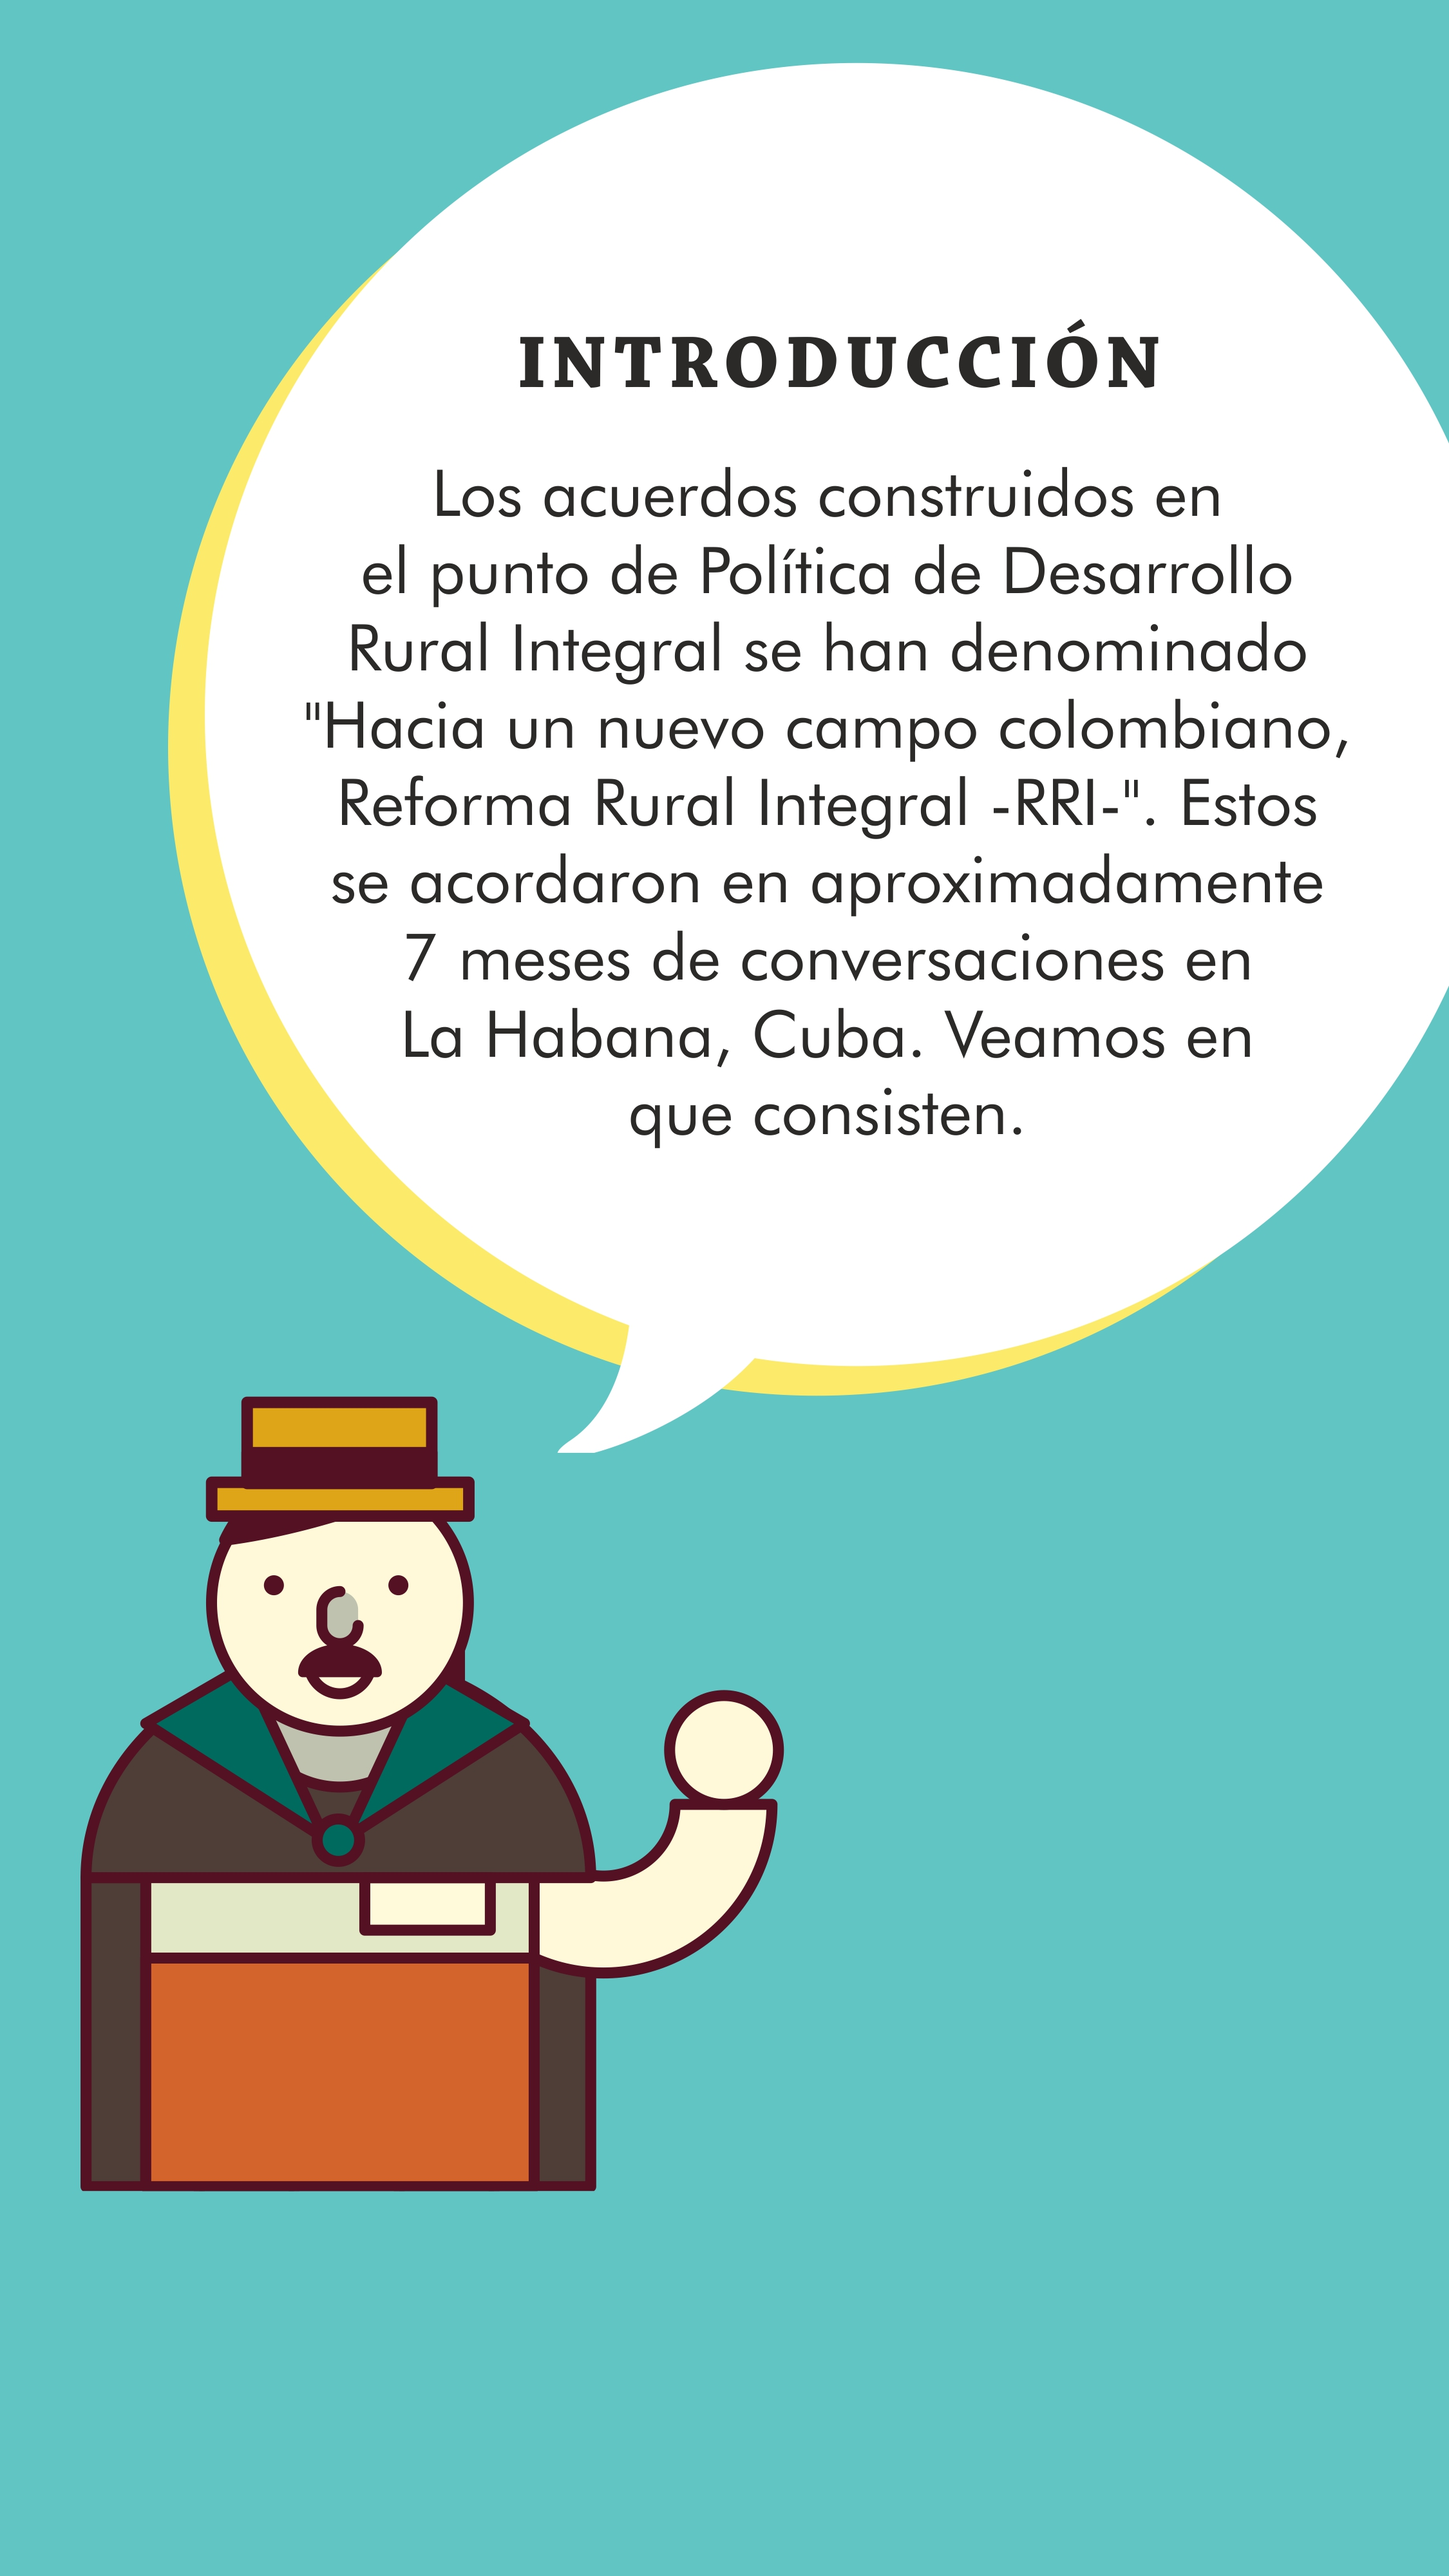
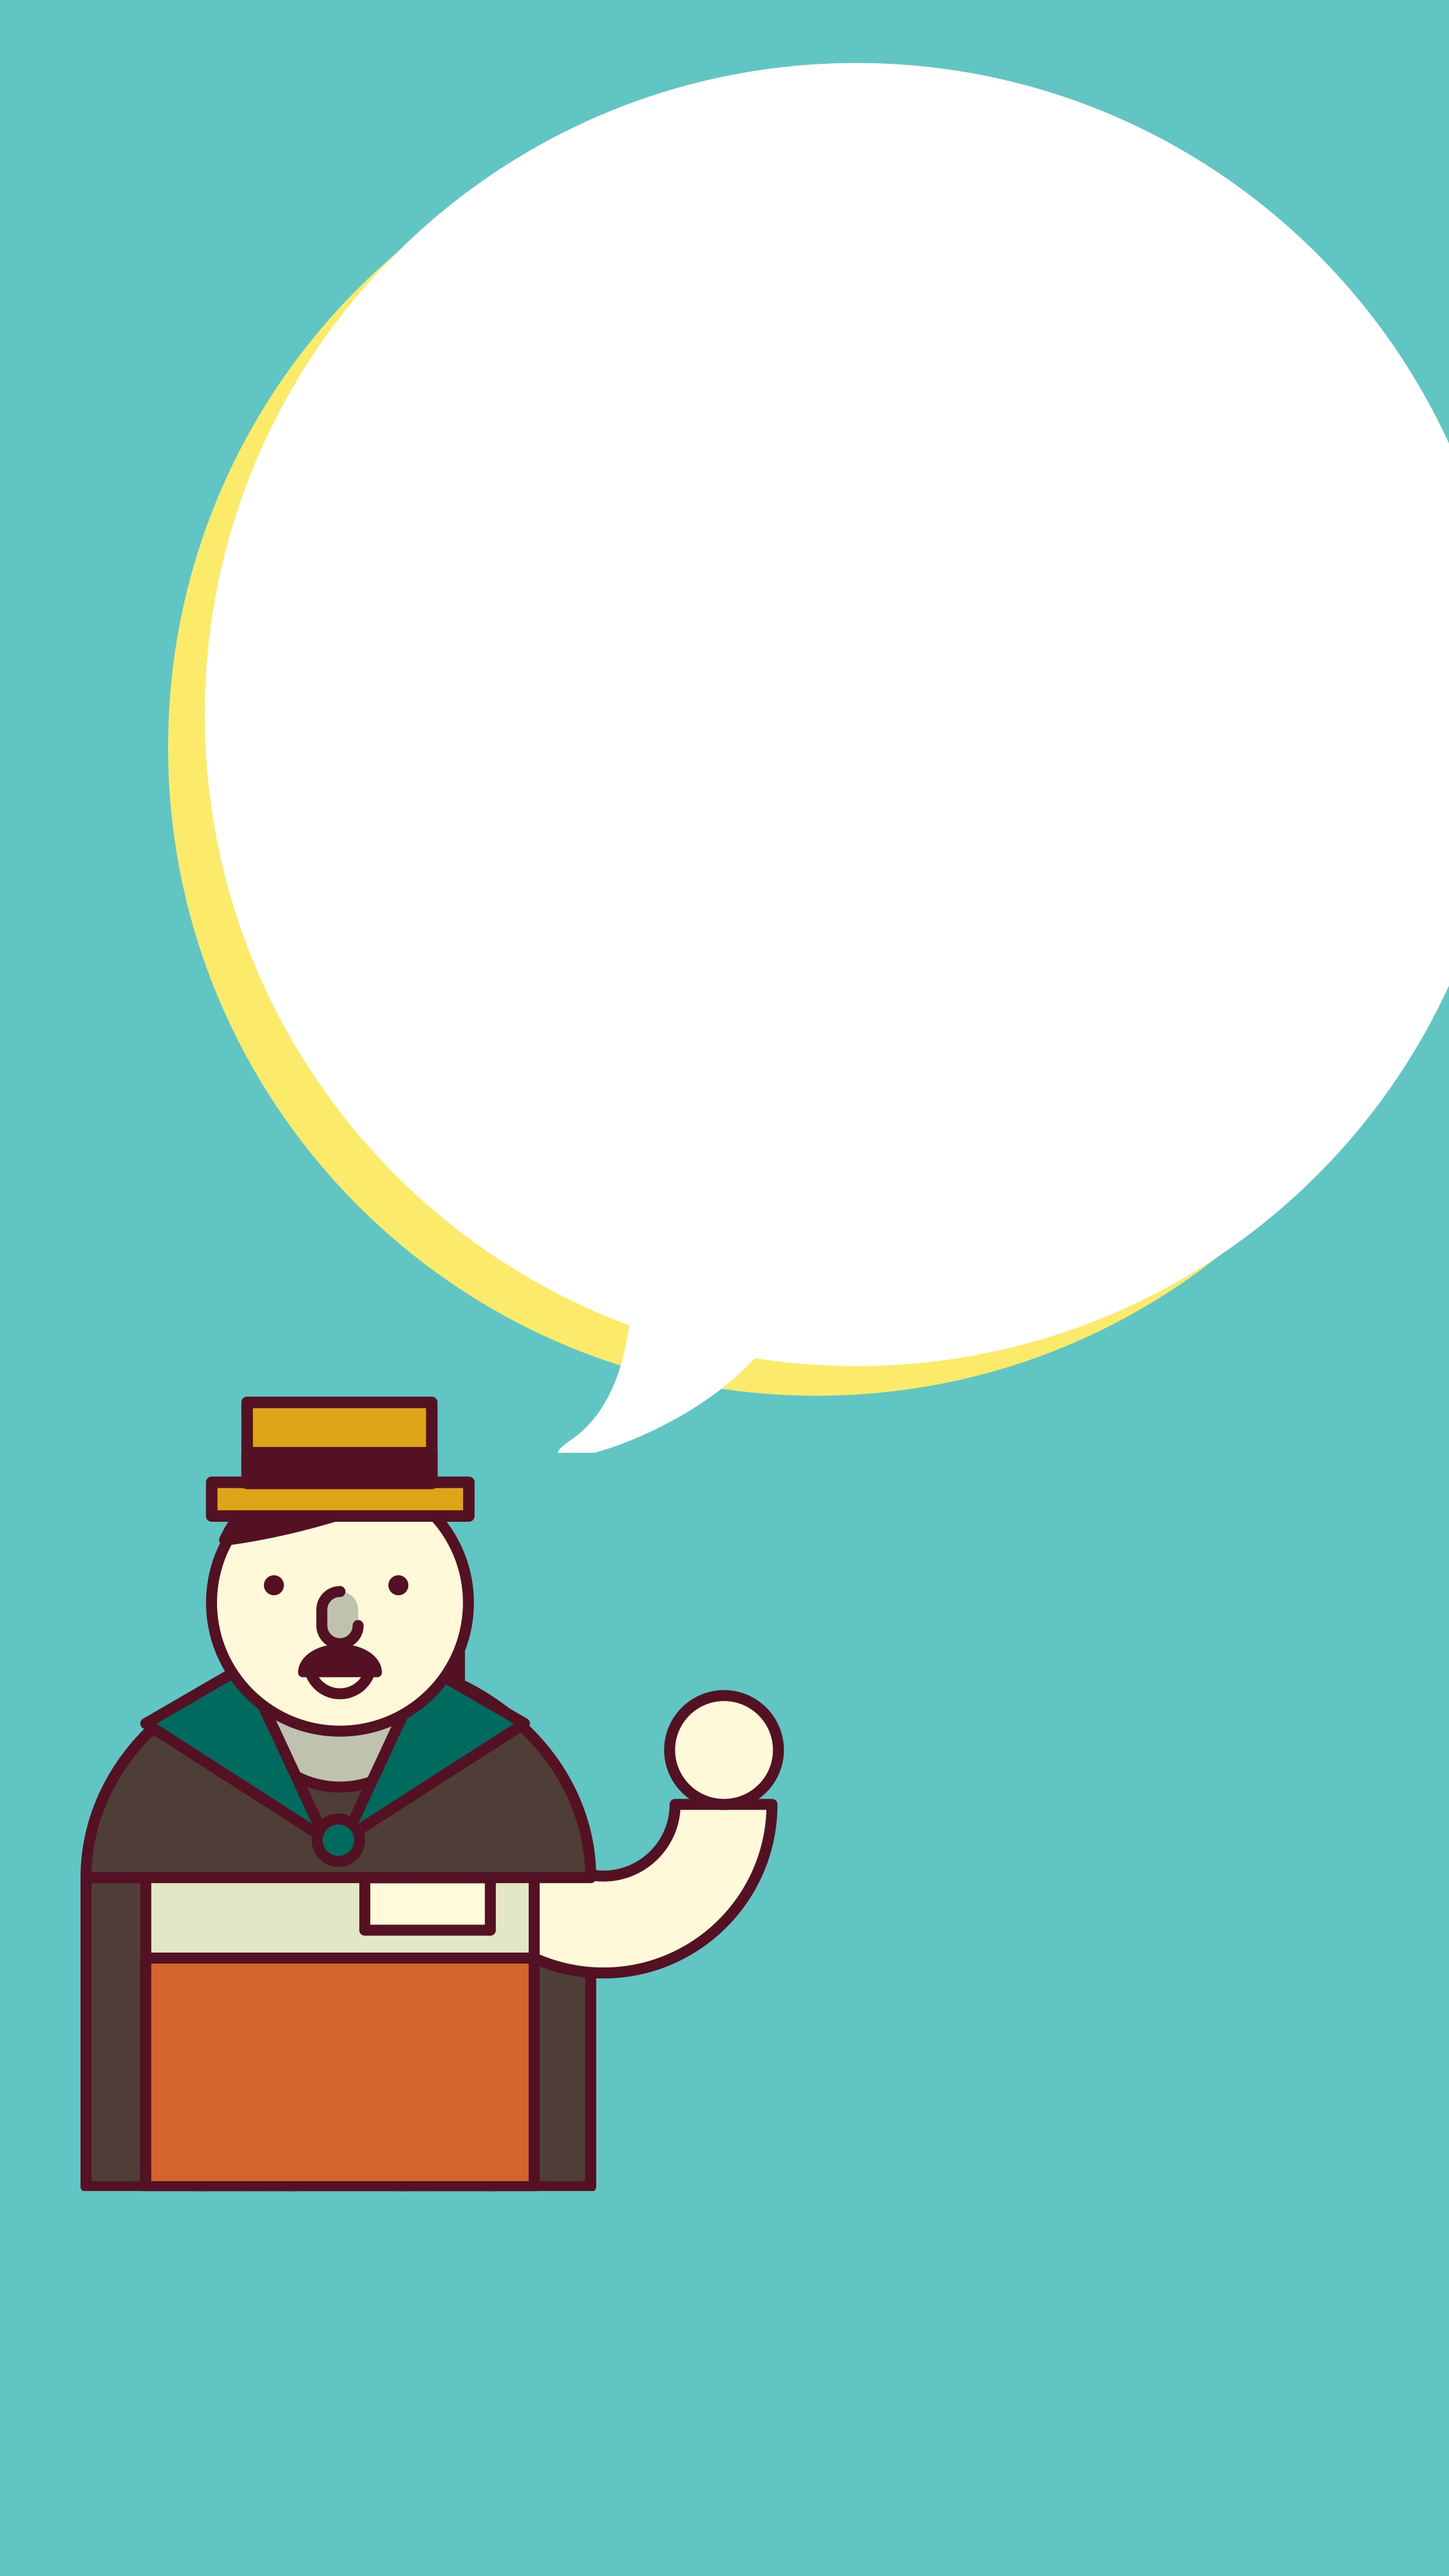
Actualizacion imagenes

Changed region(s): [[0.2178, 0.1875, 0.9022, 0.4375], [0.3422, 0.125, 0.8089, 0.1562]]

diff --git a/www/index.html b/www/index.html
@@ -45,6 +45,41 @@
         -webkit-align-items: center;
         align-items: center;
     }
+	
+		.texto1 {
+	position: absolute;
+	color: #FFF;
+	font-size: 1.2rem;
+	text-align: center;
+	width: 60vw;
+	left: 50vw;
+	margin-left: -30vw;
+	top: 68vh;
+	margin-top: -12vh;
+	font-family: "Futura Bk BT";
+		}
+		
+		.texto2 {
+	position: absolute;
+	font-size: 5vw;
+	text-align: center;
+	width: 100vw;
+	left: 59vw;
+	margin-left: -51vw;
+	top: 20vh;
+	margin-top: -15vh;
+	font-family: "Futura Bk BT";
+		}
+		
+	.titulo1 {
+	font-family: "Chaparral Pro";
+	font-weight: bold;
+		}
+		
+		#globo {
+	display: table-cell; vertical-align: middle;
+		}
+		
     </style>
 </head>
 <body>
@@ -53,8 +88,28 @@
         <div class="swiper-wrapper">
             <div class="swiper-slide"><img src="img/01.jpg" width="100%">
           </div>
-            <div class="swiper-slide"><img src="img/02.jpg" width="100%" ></div>
-            <div class="swiper-slide"><img src="img/03.jpg" width="100%" ></div>
+            <div class="swiper-slide"><img src="img/02.jpg" width="100%" >
+           	  <div class="texto1">
+                	Hacia un nuevo campo</br>
+					colombiano</br>
+					Reforma Rural Integral (RRI)</br>
+            	</div>
+          </div>
+            <div class="swiper-slide"><img src="img/03.svg" width="100%" >
+            <div id="globo"><img src="img/globo1.svg" style="width: 90%; margin-left: 0%; position:absolute; left:10vw; top:1vh"></div>
+           	  <div class="texto2">
+                	<p class="titulo1">INTRODUCCION</p>
+                  Los acuerdos construidos en </br>
+                  el punto de Política de Desarrollo </br> 
+                  Rural Integral se han denominado  </br> 
+                  "Hacia un nuevo campo colombiano, </br> 
+                  Reforma Rural Integral -RRI-". Estos </br> 
+                  se acordaron en aproximadamente </br> 
+                  7 meses de conversaciones en </br> 
+                  La Habana, Cuba. Veamos en </br>
+                  que consisten.
+              </div>               
+            </div>
             <div class="swiper-slide"><img src="img/04.jpg" width="100%" ></div>
             <div class="swiper-slide"><img src="img/05.jpg" width="100%" ></div>
            <div class="swiper-slide"><a href="02.html" data-transition="slide"><img src="img/06.jpg" width="100%" ></a></div>
